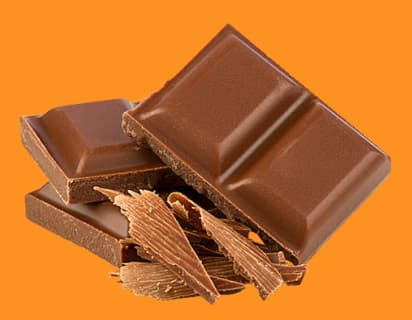
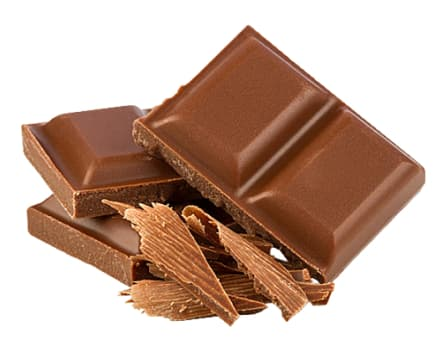
images unique-components for mobile

diff --git a/src/partials/unique_components.html b/src/partials/unique_components.html
@@ -10,9 +10,9 @@
                     <div class="flip-card">
                         <div class="flip-card-inner">
                             <div class="flip-card-front">
-                                <img src="/src/images/unique-component/chocolate.jpg" class="component" alt="cubes of chocolate" width="206" height="160"
-                                srcset="/src/images/unique-component/chocolate.jpg 1x,
-                                /src/images/unique-component/chocolatex2.jpg 2x">
+                                <img src="/src/images/unique-component/chocolatemt.jpg" class="component" alt="cubes of chocolate" width="206" height="160"
+                                srcset="/src/images/unique-component/chocolatemt.jpg 1x,
+                                /src/images/unique-component/chocolatemtx2.jpg 2x">
                                 <h3 class="first-component-name">Milk chocolate</h3>
                             </div>
                             <div class="flip-card-back">
@@ -30,9 +30,9 @@
                     <div class="flip-card">
                         <div class="flip-card-inner">
                             <div class="flip-card-front">
-                                <img src="/src/images/unique-component/milk.jpg" class="component" alt="cubes of chocolate" width="206" height="160"
-                                srcset="/src/images/unique-component/milk.jpg 1x,
-                                /src/images/unique-component/milkx2.jpg 2x">
+                                <img src="/src/images/unique-component/milkmt.jpg" class="component" alt="cubes of chocolate" width="206" height="160"
+                                srcset="/src/images/unique-component/milkmt.jpg 1x,
+                                /src/images/unique-component/milkmtx2.jpg 2x">
                                 <h3 class="other-component-name">Milk</h3>
                             </div>
                             <div class="flip-card-back">
@@ -48,9 +48,9 @@
                     <div class="flip-card">
                         <div class="flip-card-inner">
                             <div class="flip-card-front">
-                                <img src="/src/images/unique-component/nuts.jpg" class="component" alt="cubes of chocolate" width="206" height="160"
-                                srcset="/src/images/unique-component/nuts.jpg 1x,
-                                /src/images/unique-component/nutsx2.jpg 2x">
+                                <img src=/src/images/unique-component/nutsmt.jpg" class="component" alt="cubes of chocolate" width="206" height="160"
+                                srcset="/src/images/unique-component/nutsmt.jpg 1x,
+                                /src/images/unique-component/nutsmtx2.jpg 2x">
                                 <h3 class="other-component-name">Nuts</h3>
                             </div>
                             <div class="flip-card-back">
@@ -66,9 +66,9 @@
                     <div class="flip-card">
                         <div class="flip-card-inner">
                             <div class="flip-card-front">
-                                <img src="/src/images/unique-component/cacao.jpg" class="component" alt="cubes of chocolate" width="206" height="160"
-                                srcset="/src/images/unique-component/cacao.jpg 1x,
-                                /src/images/unique-component/cacaox2.jpg 2x">
+                                <img src="/src/images/unique-component/cacaomt.jpg" class="component" alt="cubes of chocolate" width="206" height="160"
+                                srcset="/src/images/unique-component/cacaomt.jpg 1x,
+                                /src/images/unique-component/cacaomtx2.jpg 2x">
                                 <h3 class="other-component-name">Semi-sweet chocolate</h3>
                             </div>
                             <div class="flip-card-back">
